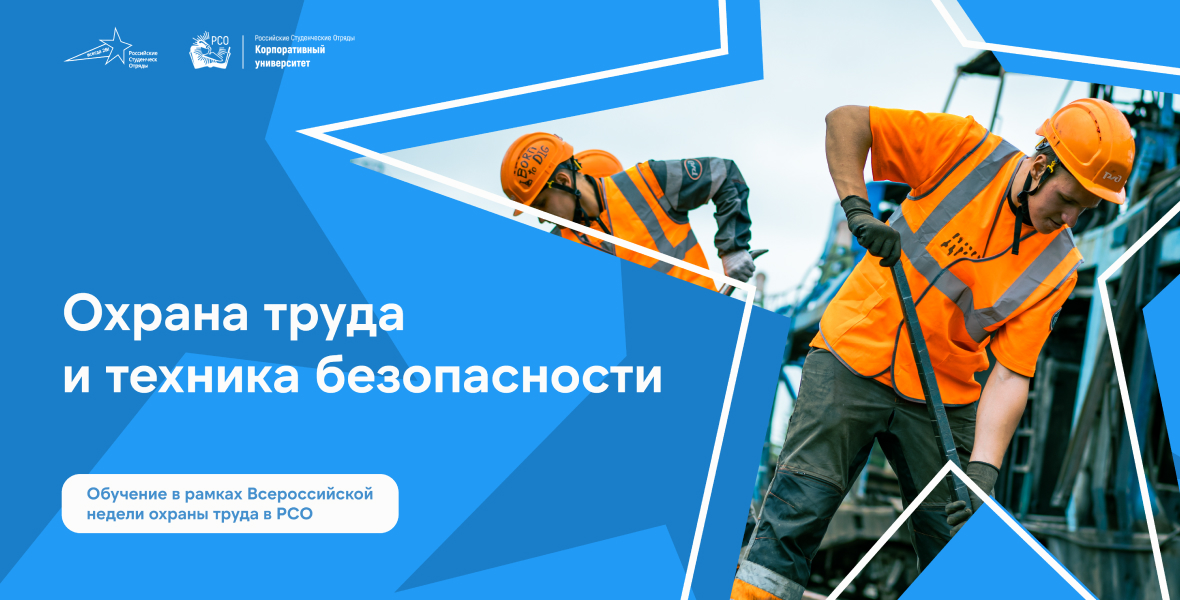
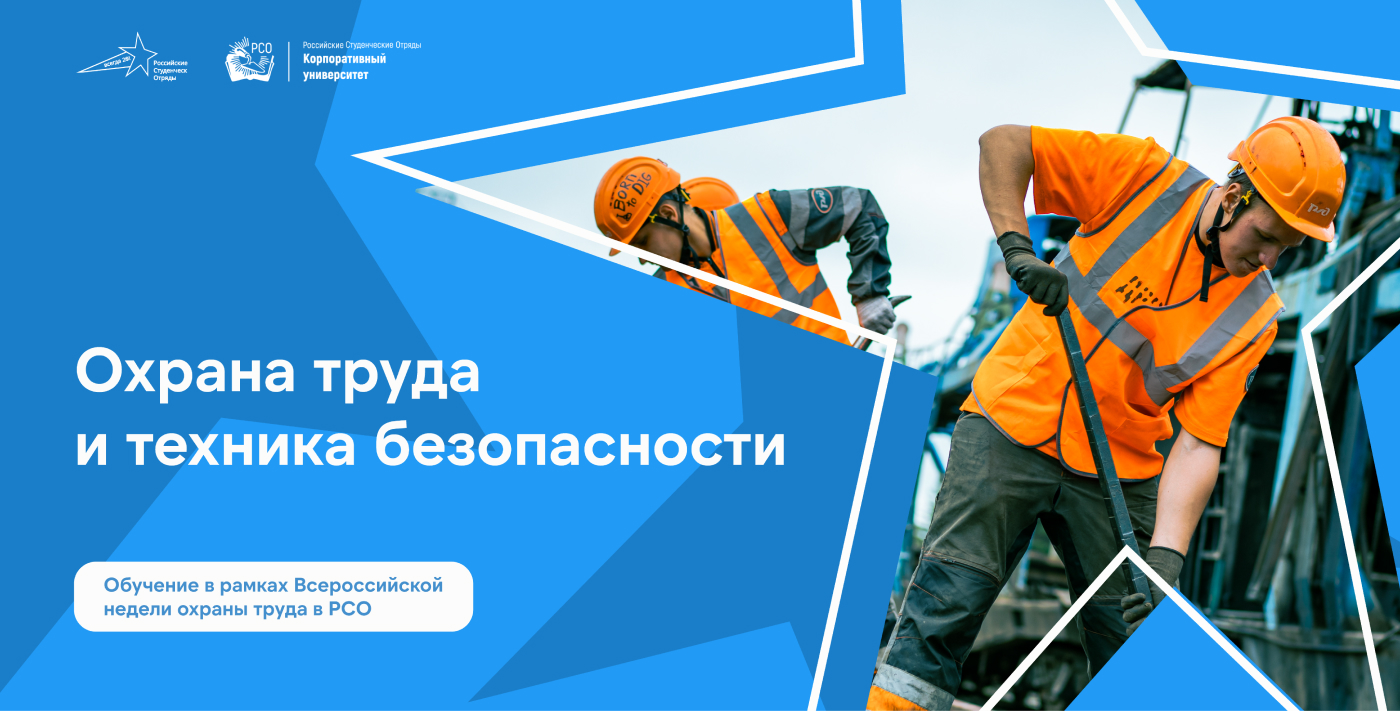
fix adaptive

diff --git a/Client/src/app/css/competition.scss b/Client/src/app/css/competition.scss
@@ -86,33 +86,32 @@
             // border-radius: 10px;
 
             img {
-                // border-radius: 0px 10px 10px 0px;
+                border-radius: 0px 10px 10px 0px;
                 max-width: 413px;
                 width: 100%;
                 height: 209px;
 
                 @media (max-width: 1024px) {
-                    max-width: 700px;
-                    width: 100%;
-                    height: 356px;
-                    // border-radius: 10px 0px;
+                    max-width: 100%;
+                    height: auto;
+                    border-radius: 10px 10px 0px 0px;
 
                 }
 
                 @media (max-width: 768px) {
-                    height: 166px;
+                    height: auto
                 }
             }
 
             @media (max-width: 1024px) {
                 flex-direction: column-reverse;
                 row-gap: 0px;
-                max-width: 700px;
+                max-width: 100%;
                 margin: 0px auto;
             }
 
             @media (max-width: 768px) {
-                max-width: 328px;
+                max-width: 100%;
             }
         }
     }

diff --git a/Client/src/pages/BestSquadCompetition/components/BestSquadCompetition.vue b/Client/src/pages/BestSquadCompetition/components/BestSquadCompetition.vue
@@ -170,7 +170,7 @@
                         label="Обучение по охране труда и технике безопасности" /></router-link>
             </div>
 
-            <img src="@app/assets/SafetyBgMini.png" alt="bg" />
+            <img src="@app/assets/bg_safety.jpg" alt="bg" />
         </div>
         <router-link :to="{
             name: 'CompetitionParticipants',
